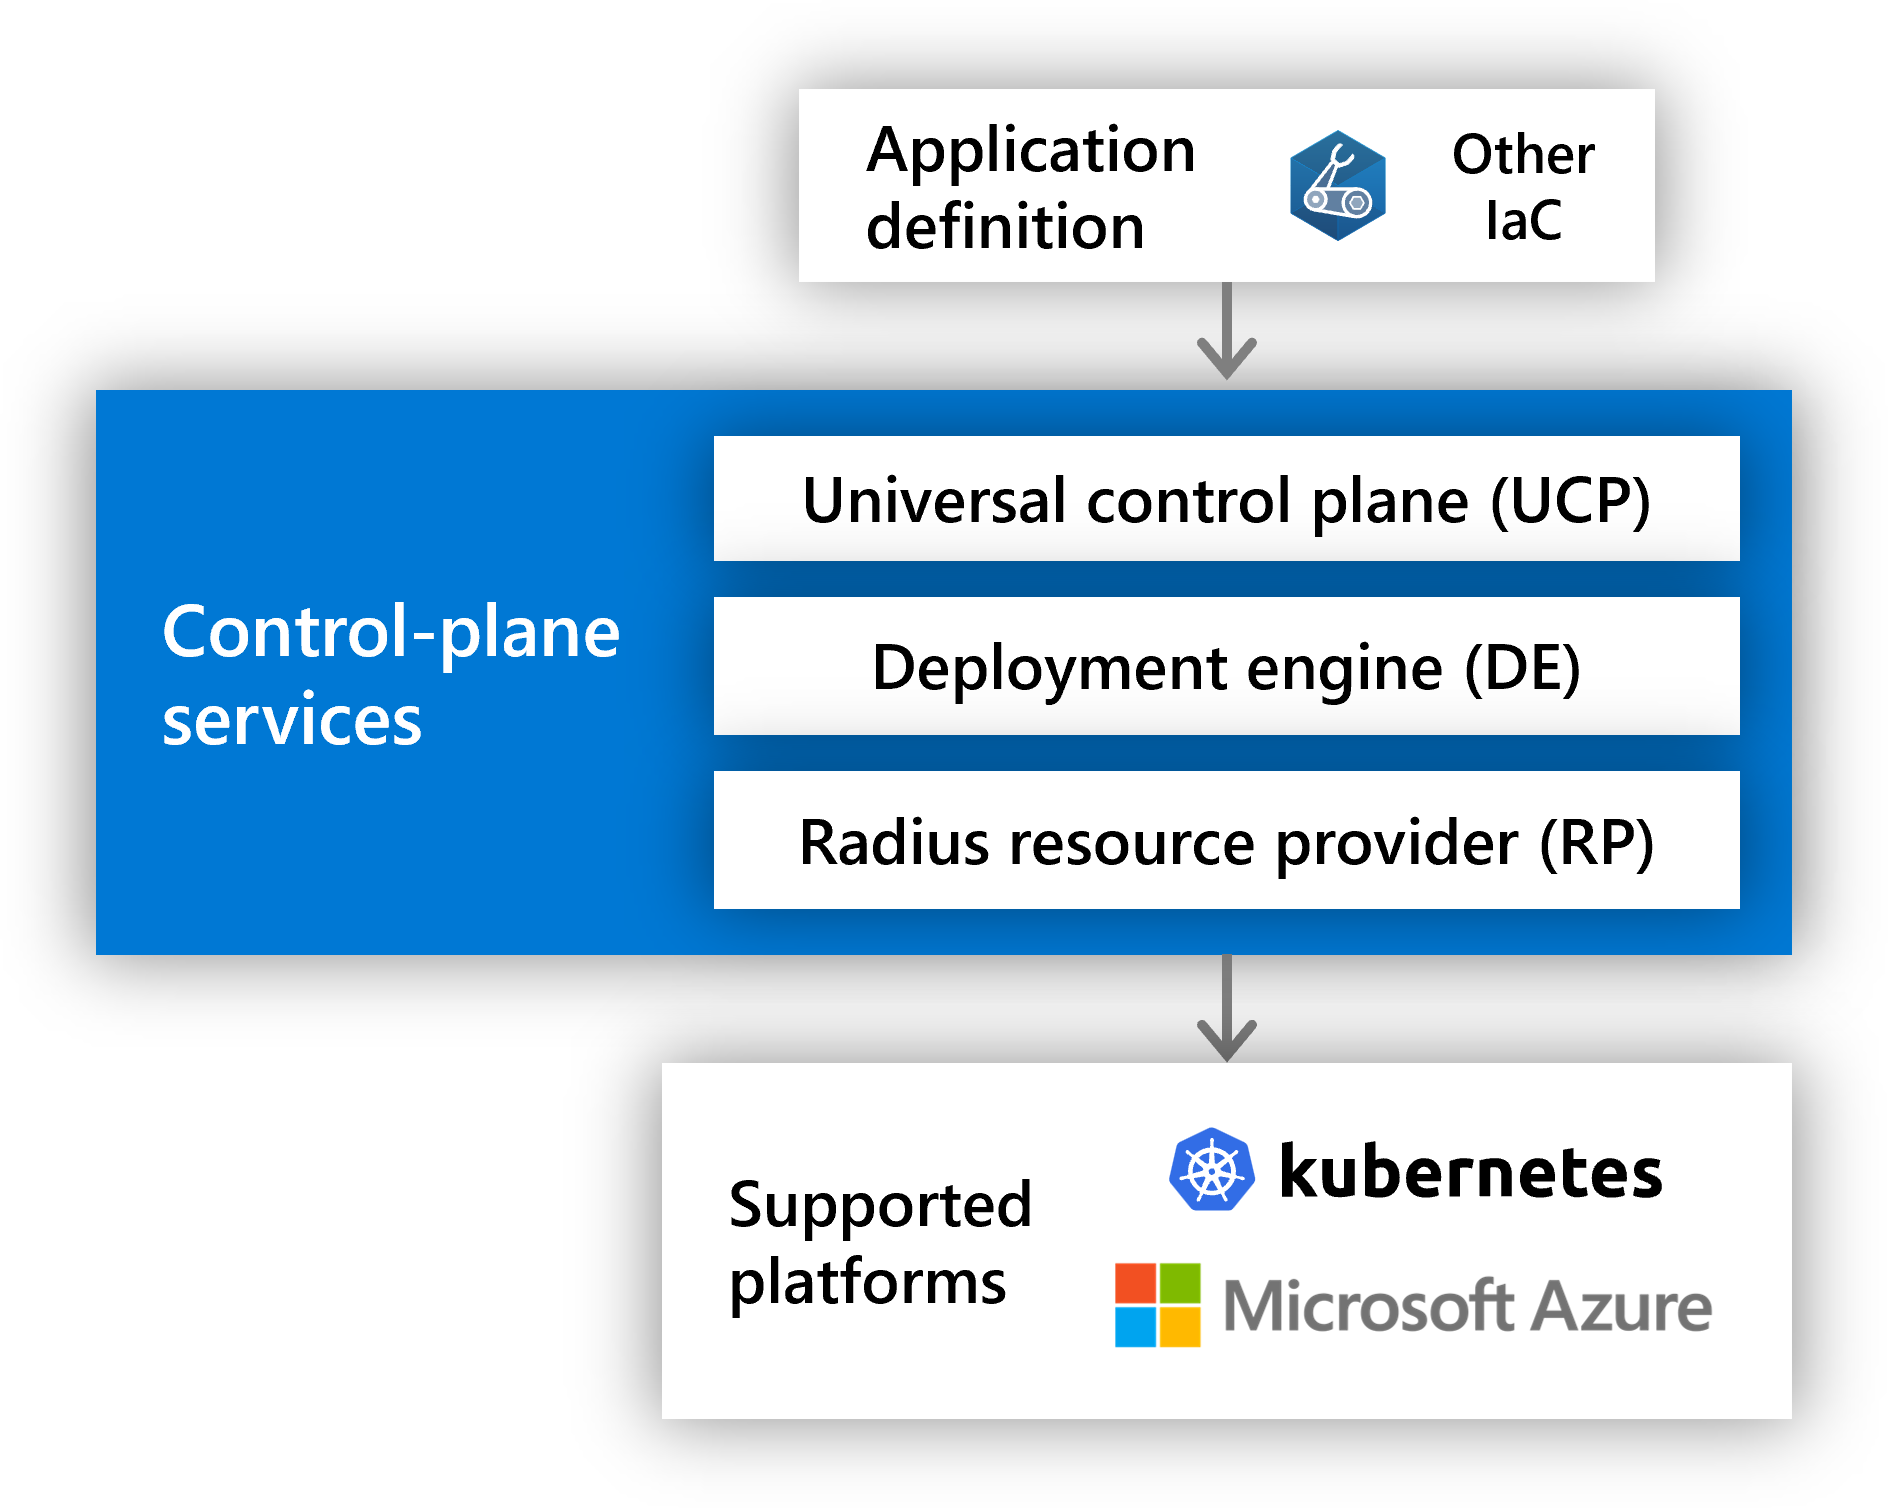
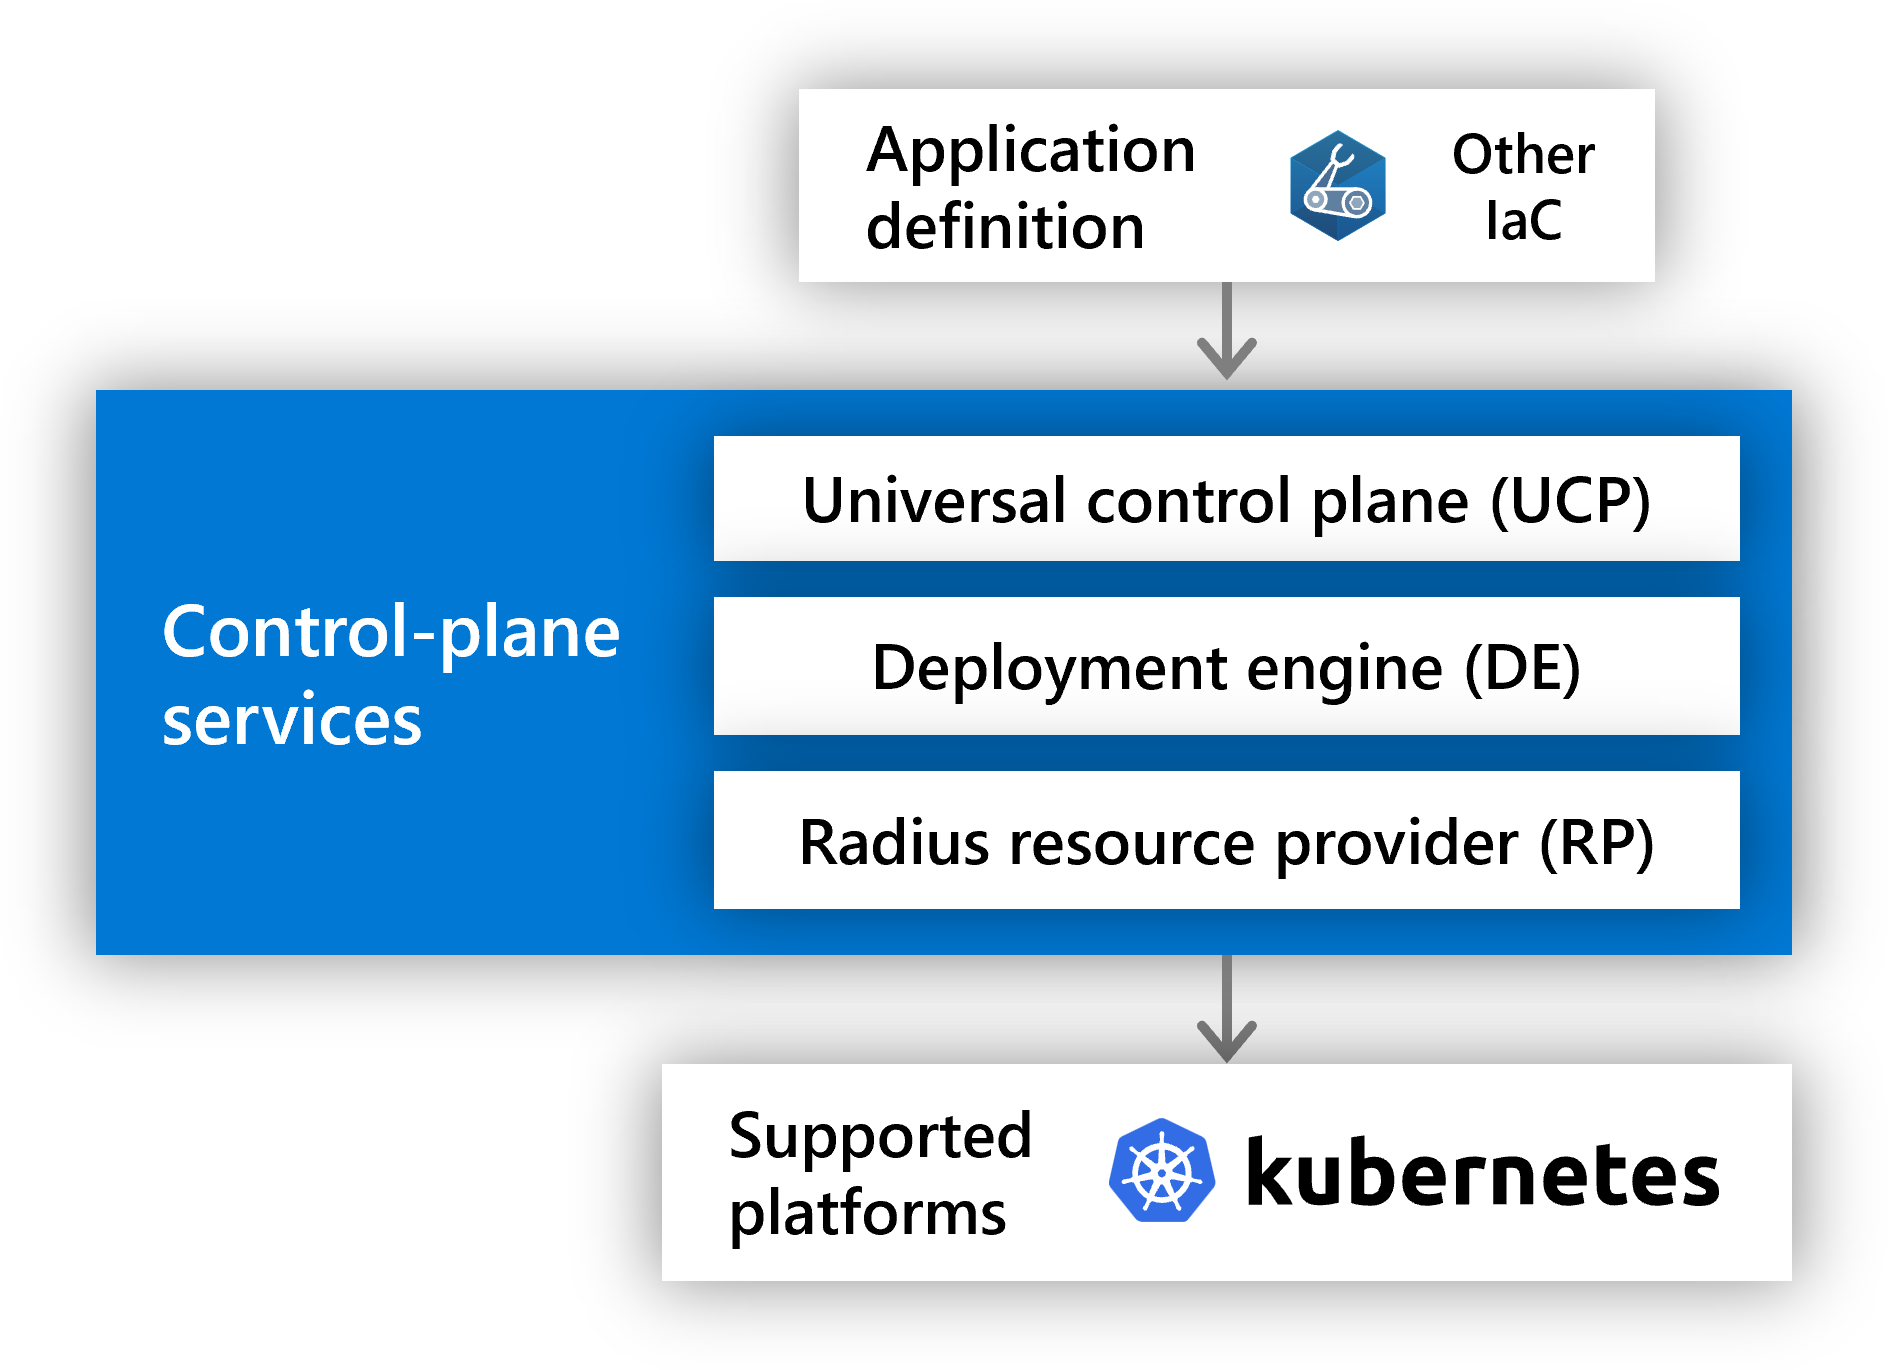
Scrub Azure and update diagrams

Changed region(s): [[0.0312, 0.0613, 0.9688, 0.9504], [0.0625, 0.3985, 0.3438, 0.5518]]

diff --git a/docs/content/concepts/architecture/index.md b/docs/content/concepts/architecture/index.md
@@ -14,11 +14,11 @@ The Project Radius control-plane is a set of services that accepts a Radius appl
 
 ## Services
 
-| Service | Description | Self-hosted | Microsoft Azure |
-|---------|-------------|-------------|-----------------|
-| **Universal control plane (UCP)/<br />Azure Resource Manager (ARM)** | The "front door" to the control-plane services. Provides authentication, authorization, routing, and other central capabilities. | Self-hosted UCP service | Azure Resource Manager (ARM) |
-| **Radius resource provider (RP)** | Manages Radius applications and app-model resources. | Self-hosted RP service | Central `Applications.*` Azure resource provider |
-| **Deployment engine (DE)** | Orchestrates UCP and ARM deployments when Bicep or ARM JSON is used to deploy. | Self-hosted DE service | Azure Resource Manager (ARM) |
+| Service | Description |
+|---------|-------------|
+| **Universal control plane (UCP)** | The "front door" to the control-plane services. Provides authentication, authorization, routing, and other central capabilities. |
+| **Radius resource provider (RP)** | Manages Radius applications and app-model resources. |
+| **Deployment engine (DE)** | Orchestrates UCP and ARM deployments when Bicep or ARM JSON is used to deploy. |
 
 ### Universal control plane
 
@@ -26,7 +26,7 @@ The universal control plane (UCP) provides the front-door endpoint, authenticati
 
 Learn more about the deployment flows:
 
-{{< tabs "Self-hosted template" "Self-hosted imperative" "Azure template" >}}
+{{< tabs "Deployment template" "Other IaC/Imperative command">}}
 
 {{% codetab %}}
 When using Bicep to author and deploy Radius applications:
@@ -45,16 +45,6 @@ When using the rad CLI or other IaC tools to deploy and interact with Radius app
 - The client (CLI, other IaC tools) acts as the DE in this case, bypassing the built-in DE.
 
 <img src="ucp-selfhosted-imperative.png" alt="Diagram of the UCP on a self-hosted environment with imperative deployment" width="1000" />
-{{% /codetab %}}
-
-{{% codetab %}}
-In Microsoft Azure environments, Azure Resource Manager (ARM) is used instead of UCP.
-
-- A template is sent from ARM to the deployment engine (DE) for processing and orchestration
-- DE interacts with the Radius RP to manage Radius resources, other RPs for other Azure resource types, and with external planes for other resources (Kubernetes)
-- The RP handles CRUDL operations for Radius applications, connectors, and other app-model resources
-
-<img src="azure-deployment.png" alt="Diagram of the Azure environment with template deployment" width="1000" />
 {{% /codetab %}}
 
 {{< /tabs >}}
